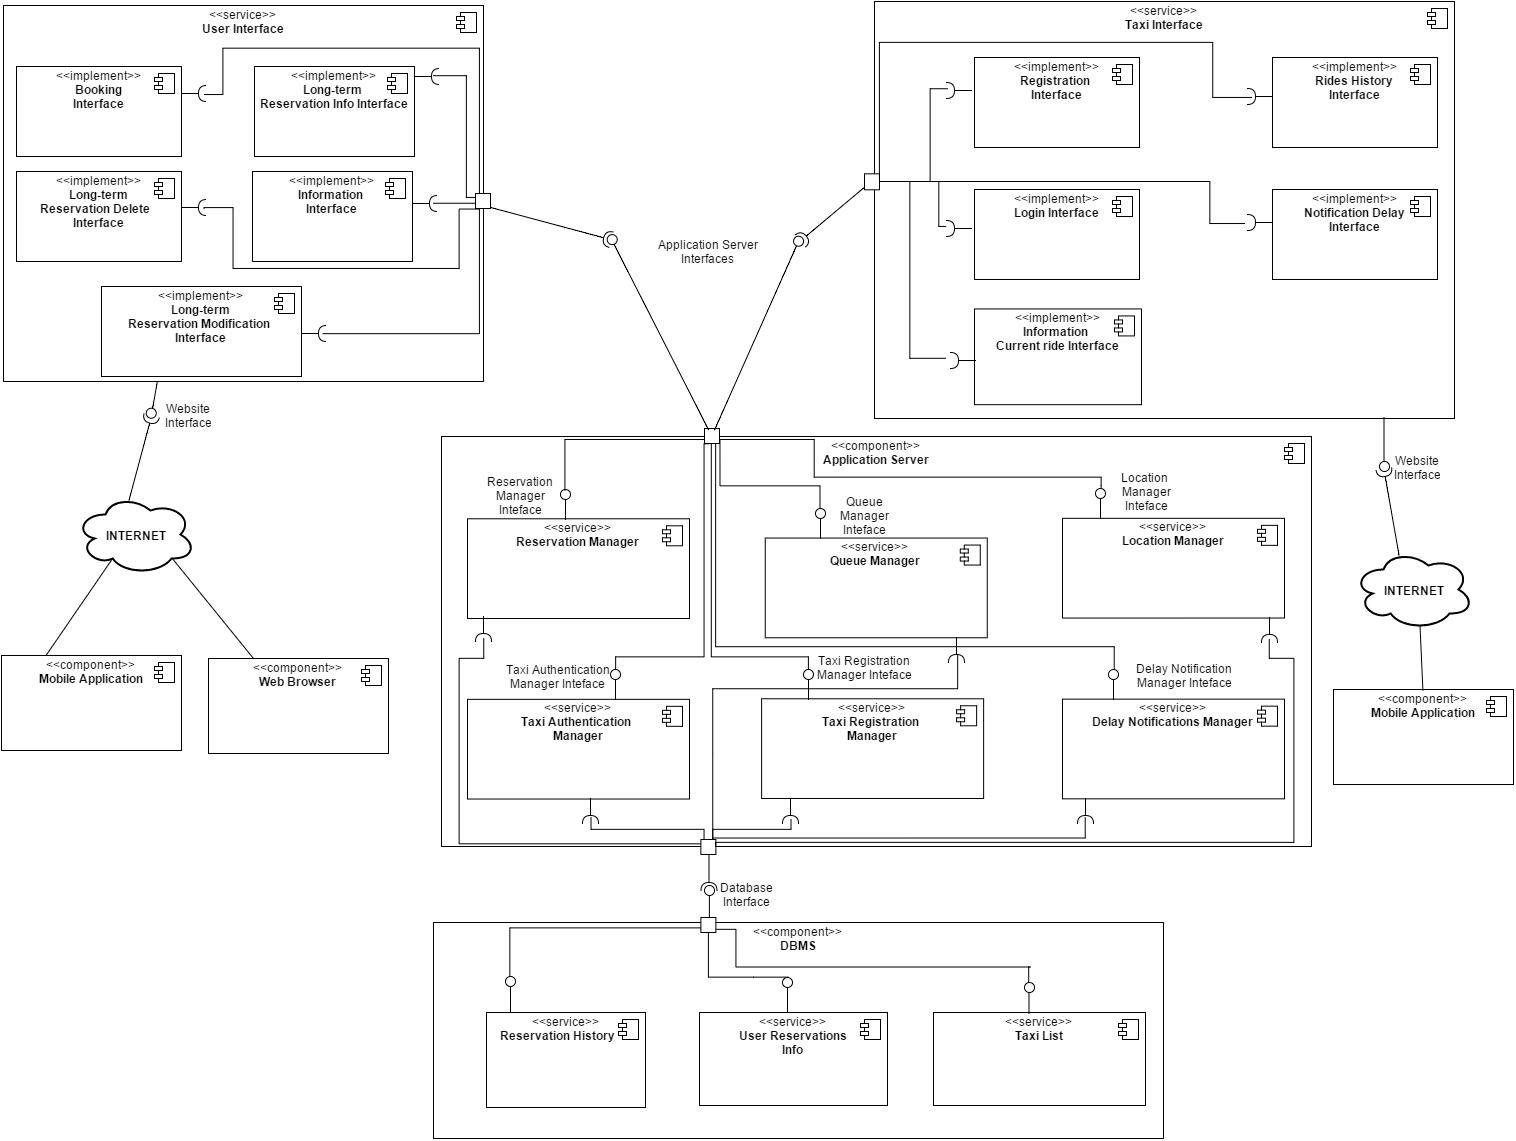
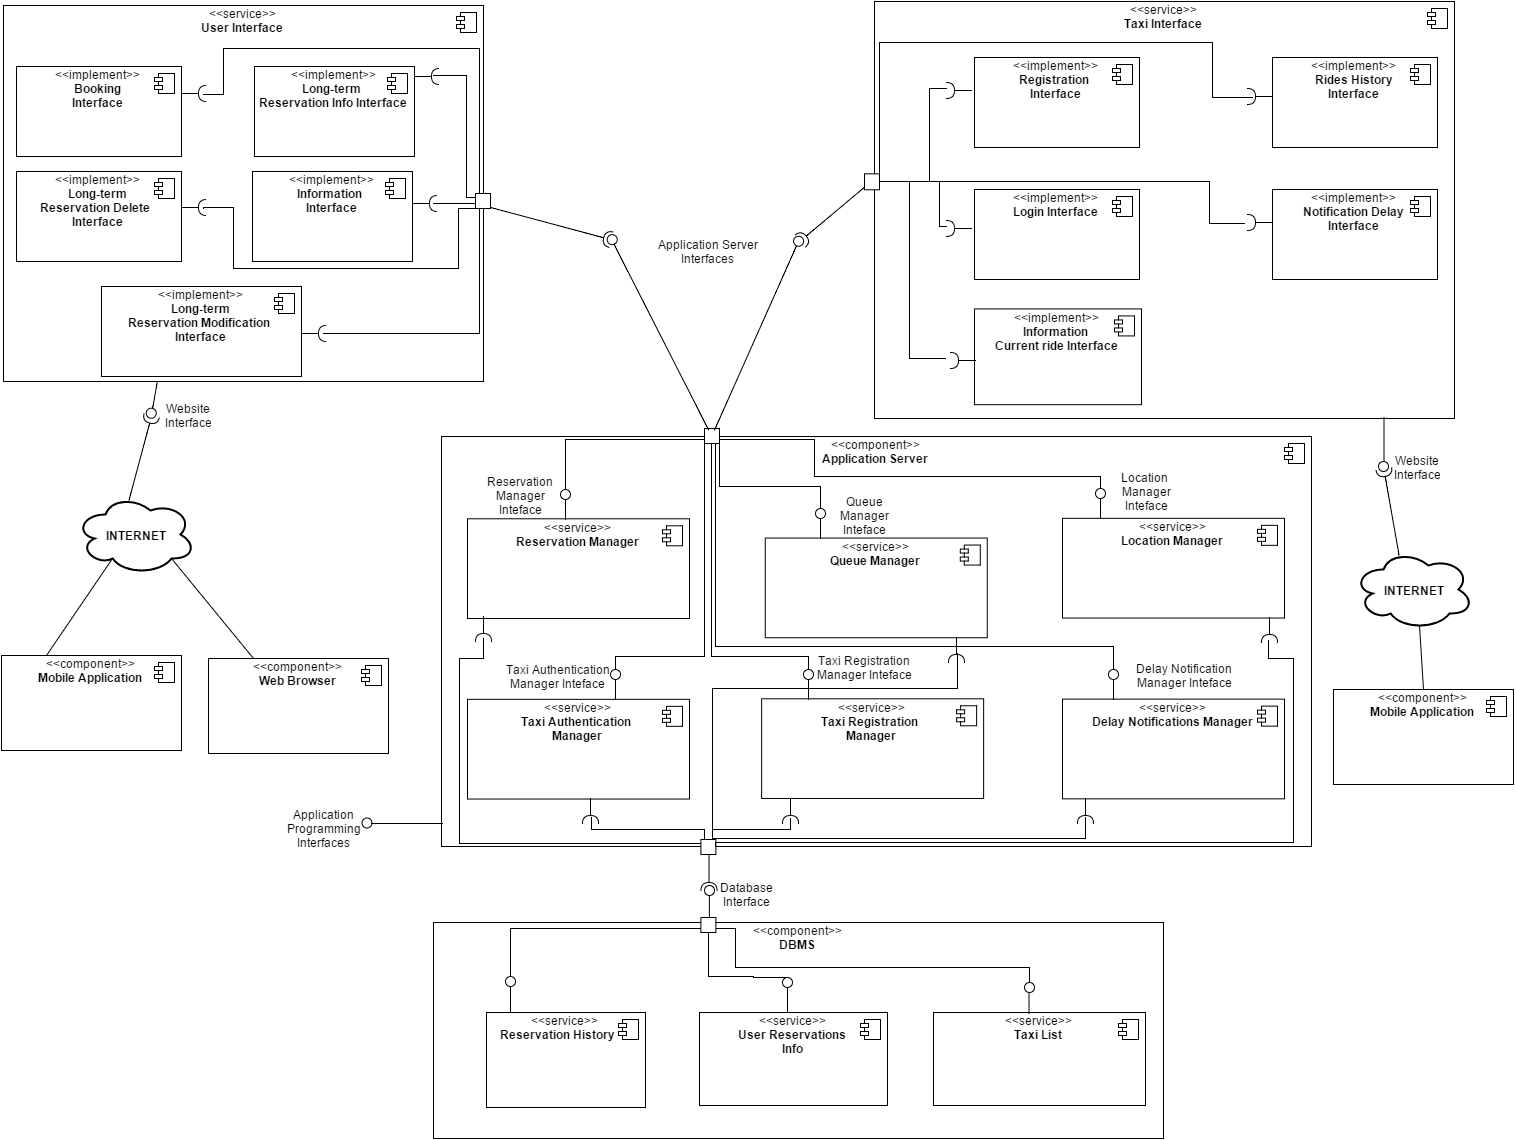
architectural styles

diff --git a/dd/architectural_design.tex b/dd/architectural_design.tex
@@ -66,5 +66,15 @@
 		\item \textbf{Application Programming Interfaces:} This interfaces allow the system to be upgraded and expanded with new functionalities.
 	\end{itemize}
 \subsection{Selected architectural styles and patterns}
+	\begin{wrapfigure}{r}{0.2\textwidth}
+		\vspace{-30pt}
+		\begin{center}	
+			\includegraphics[width=0.18\textwidth]{./images/architecture.png}
+		\end{center}
+	\end{wrapfigure}
+	The system is organized with a Client-Server architecture, but the application server is divided in several managers which manage every service. 
+	
+	The GUI part of the system are the cellphones and the website that allow the users and the taxis to access the system through the internet network. 
+\newpage
 \subsection{Other design decisions}
 	\subsubsection{Design patterns}

diff --git a/dd/dd.tex b/dd/dd.tex
@@ -6,6 +6,8 @@
 
 \usepackage{titlesec}
 
+\usepackage{wrapfig}
+
 \newcommand{\HRule}{\rule{\linewidth}{0.5mm}}
 
 \setcounter{secnumdepth}{5}
